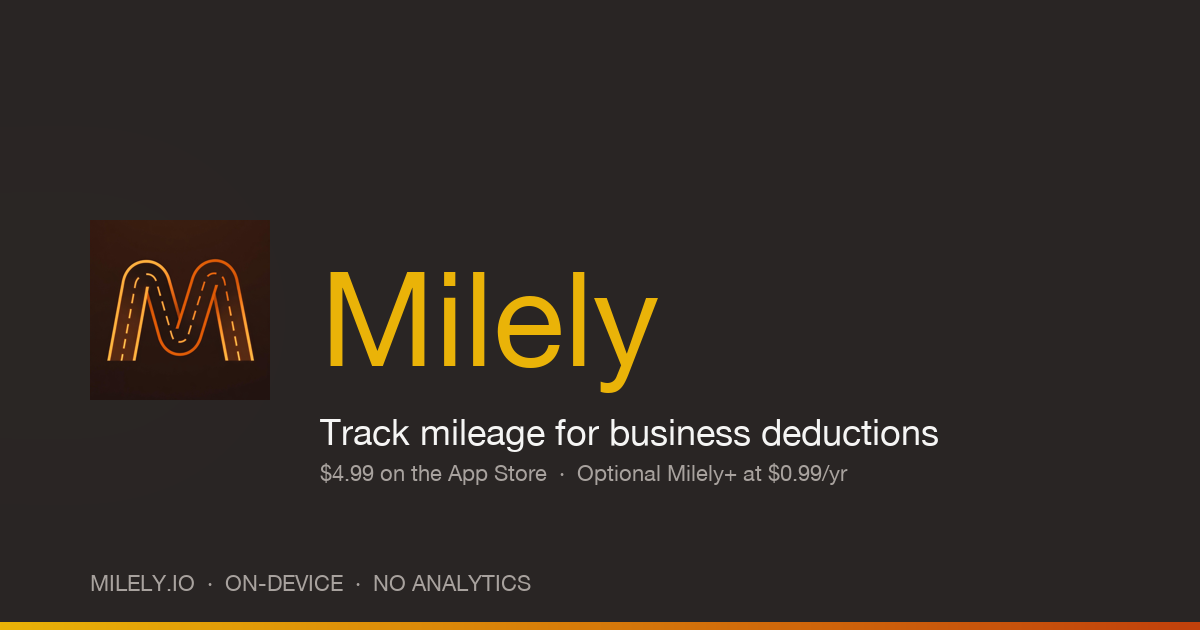
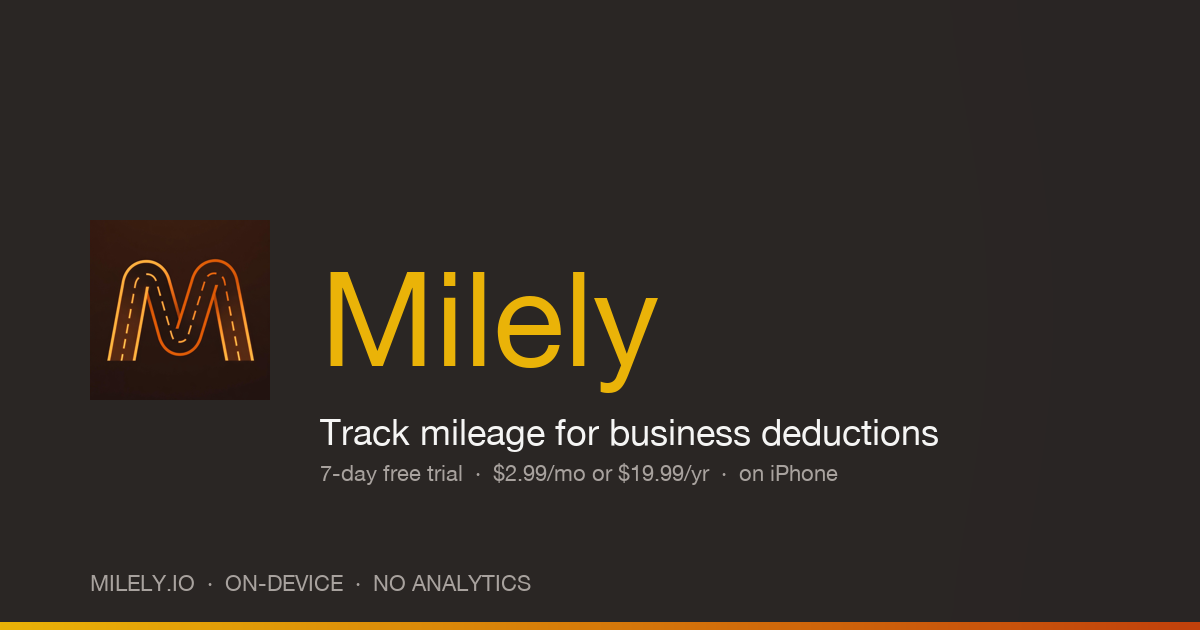
Update JSON-LD offers + OG card to new pricing model
- JSON-LD SoftwareApplication offers: drop the old Base $4.99 + Plus
  $0.99/yr pair; add Monthly $2.99 + Annual $19.99 + Lifetime $49.99.
  This is what Google rich-results / search snippets / price-tracking
  sites parse.
- og-image.png regenerated: tagline now reads "7-day free trial · $2.99/mo
  or $19.99/yr · on iPhone" (was "$4.99 on the App Store · Optional
  Milely+ at $0.99/yr"). What shows in every Slack / Twitter / iMessage
  social card preview when someone shares a milely.io link.

Changed region(s): [[0.2775, 0.7238, 0.7092, 0.7841]]

diff --git a/_layouts/default.html b/_layouts/default.html
@@ -45,17 +45,24 @@
   "offers": [
     {
       "@type": "Offer",
-      "name": "Milely (base app)",
-      "price": "4.99",
+      "name": "Milely Monthly",
+      "price": "2.99",
       "priceCurrency": "USD",
-      "category": "OneTimePurchase"
+      "category": "Subscription"
     },
     {
       "@type": "Offer",
-      "name": "Milely+ subscription",
-      "price": "0.99",
+      "name": "Milely Annual",
+      "price": "19.99",
       "priceCurrency": "USD",
       "category": "Subscription"
+    },
+    {
+      "@type": "Offer",
+      "name": "Milely Lifetime",
+      "price": "49.99",
+      "priceCurrency": "USD",
+      "category": "OneTimePurchase"
     }
   ]
 }
